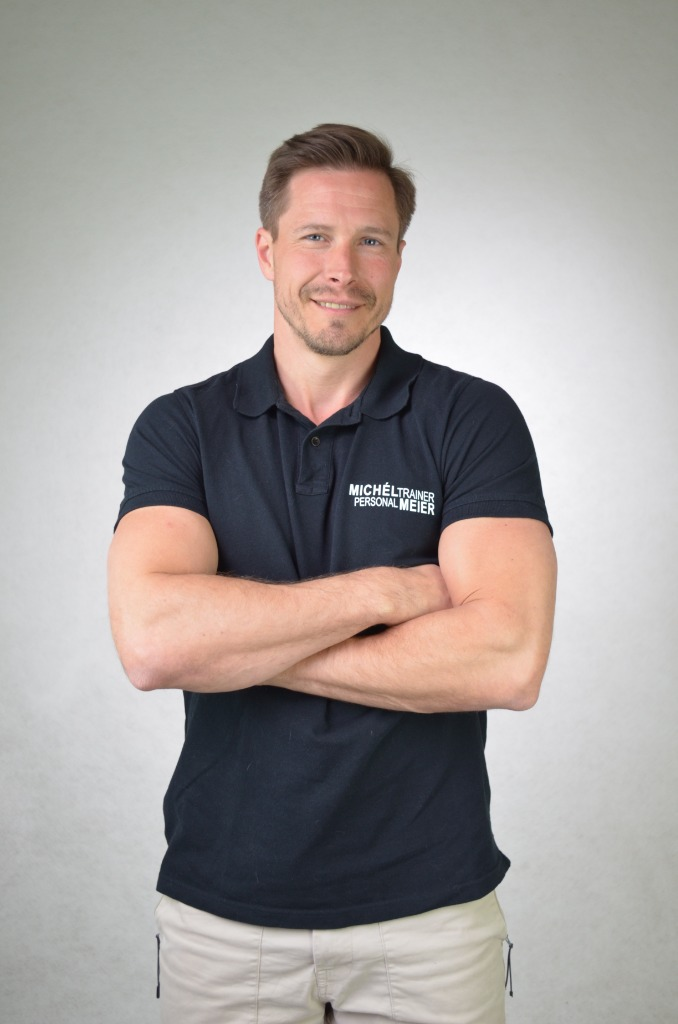
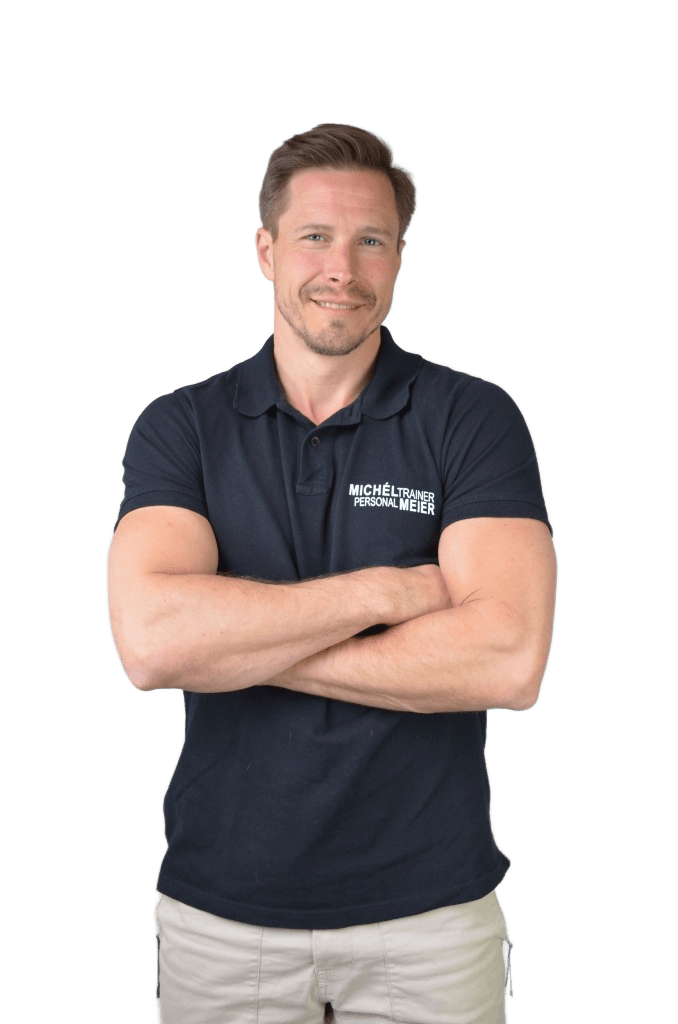
feat(hero): place transparent cutout of Michél Meier with natural shadow in Hero section

diff --git a/src/routes/index.tsx b/src/routes/index.tsx
@@ -658,18 +658,18 @@ function IndexPage() {
           </div>
 
           {/* Hero Avatar Michél Meier */}
-          <div className="mt-8 md:mt-12 flex justify-center relative pb-6">
-            <div className="relative group max-w-xs sm:max-w-md md:max-w-lg">
-              <div className="relative rounded-3xl p-1.5 bg-gradient-to-b from-gold/40 via-gold/15 to-border/40 shadow-[var(--shadow-avatar)] overflow-hidden">
-                <img
-                  src={avatar}
-                  alt="Michél Meier – Gründer & Coach M³ Performance"
-                  className="rounded-[1.3rem] w-full h-[55vh] sm:h-[65vh] md:h-[70vh] max-h-[700px] object-cover object-top select-none animate-float-up"
-                />
-              </div>
+          <div className="mt-8 md:mt-10 flex justify-center relative">
+            <div className="relative">
+              <img
+                src={avatar}
+                alt="Michél Meier – Gründer & Coach M³ Performance"
+                className="avatar-shadow h-[62vh] sm:h-[72vh] md:h-[80vh] max-h-[820px] w-auto object-contain object-bottom select-none pointer-events-none animate-float-up"
+              />
+              <div className="absolute bottom-0 left-1/2 -translate-x-1/2 w-[450px] h-20 bg-gold/20 blur-3xl rounded-full pointer-events-none" />
+
               {/* Floating Credential Badge */}
-              <div className="absolute -bottom-2 left-1/2 -translate-x-1/2 sm:translate-x-0 sm:left-4 md:-left-6 bg-card/95 backdrop-blur-md border border-border/80 rounded-2xl p-3.5 shadow-xl flex items-center gap-3 animate-float-up z-10 w-[92%] sm:w-auto">
-                <div className="w-10 h-10 rounded-xl bg-gold-gradient text-primary-foreground flex items-center justify-center font-display font-bold text-sm shrink-0">
+              <div className="absolute bottom-6 left-4 md:-left-8 bg-card/90 backdrop-blur-md border border-border/80 rounded-2xl p-3.5 shadow-lg flex items-center gap-3 animate-float-up">
+                <div className="w-10 h-10 rounded-xl bg-gold-gradient text-primary-foreground flex items-center justify-center font-display font-bold text-sm">
                   M³
                 </div>
                 <div>

diff --git a/src/routes/ueber-mich.tsx b/src/routes/ueber-mich.tsx
@@ -41,11 +41,11 @@ function UeberMichPage() {
 
           <div className="grid md:grid-cols-12 gap-8 items-center mb-12">
             <div className="md:col-span-5 flex justify-center">
-              <div className="relative rounded-3xl p-1.5 bg-gradient-to-b from-gold/40 via-gold/15 to-border/40 shadow-xl overflow-hidden max-w-xs sm:max-w-sm">
+              <div className="relative">
                 <img
                   src={avatar}
                   alt="Michél Meier"
-                  className="rounded-[1.3rem] w-full h-auto object-cover"
+                  className="avatar-shadow h-[40vh] sm:h-[48vh] max-h-[500px] w-auto object-contain object-bottom select-none"
                 />
               </div>
             </div>
